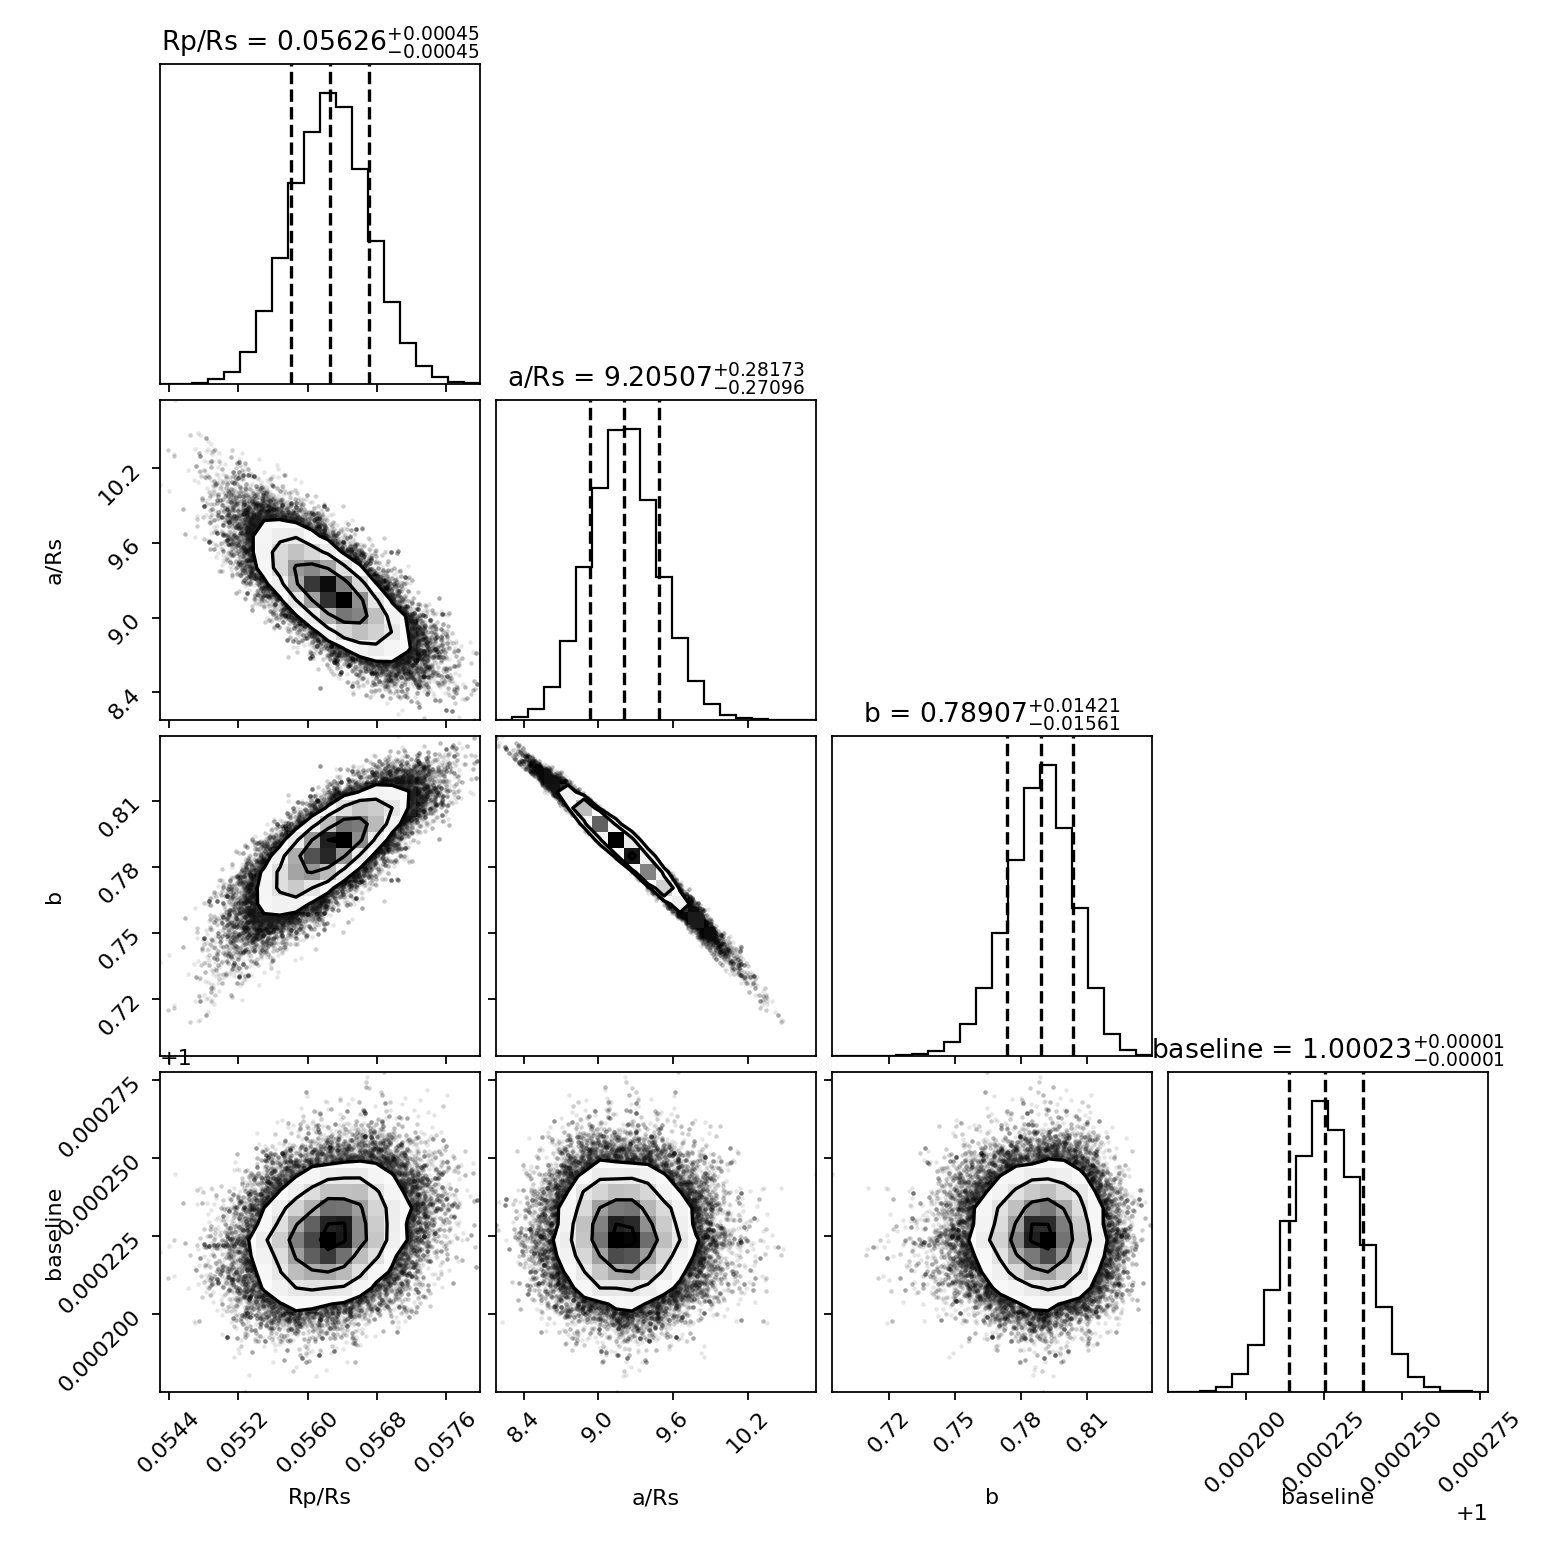
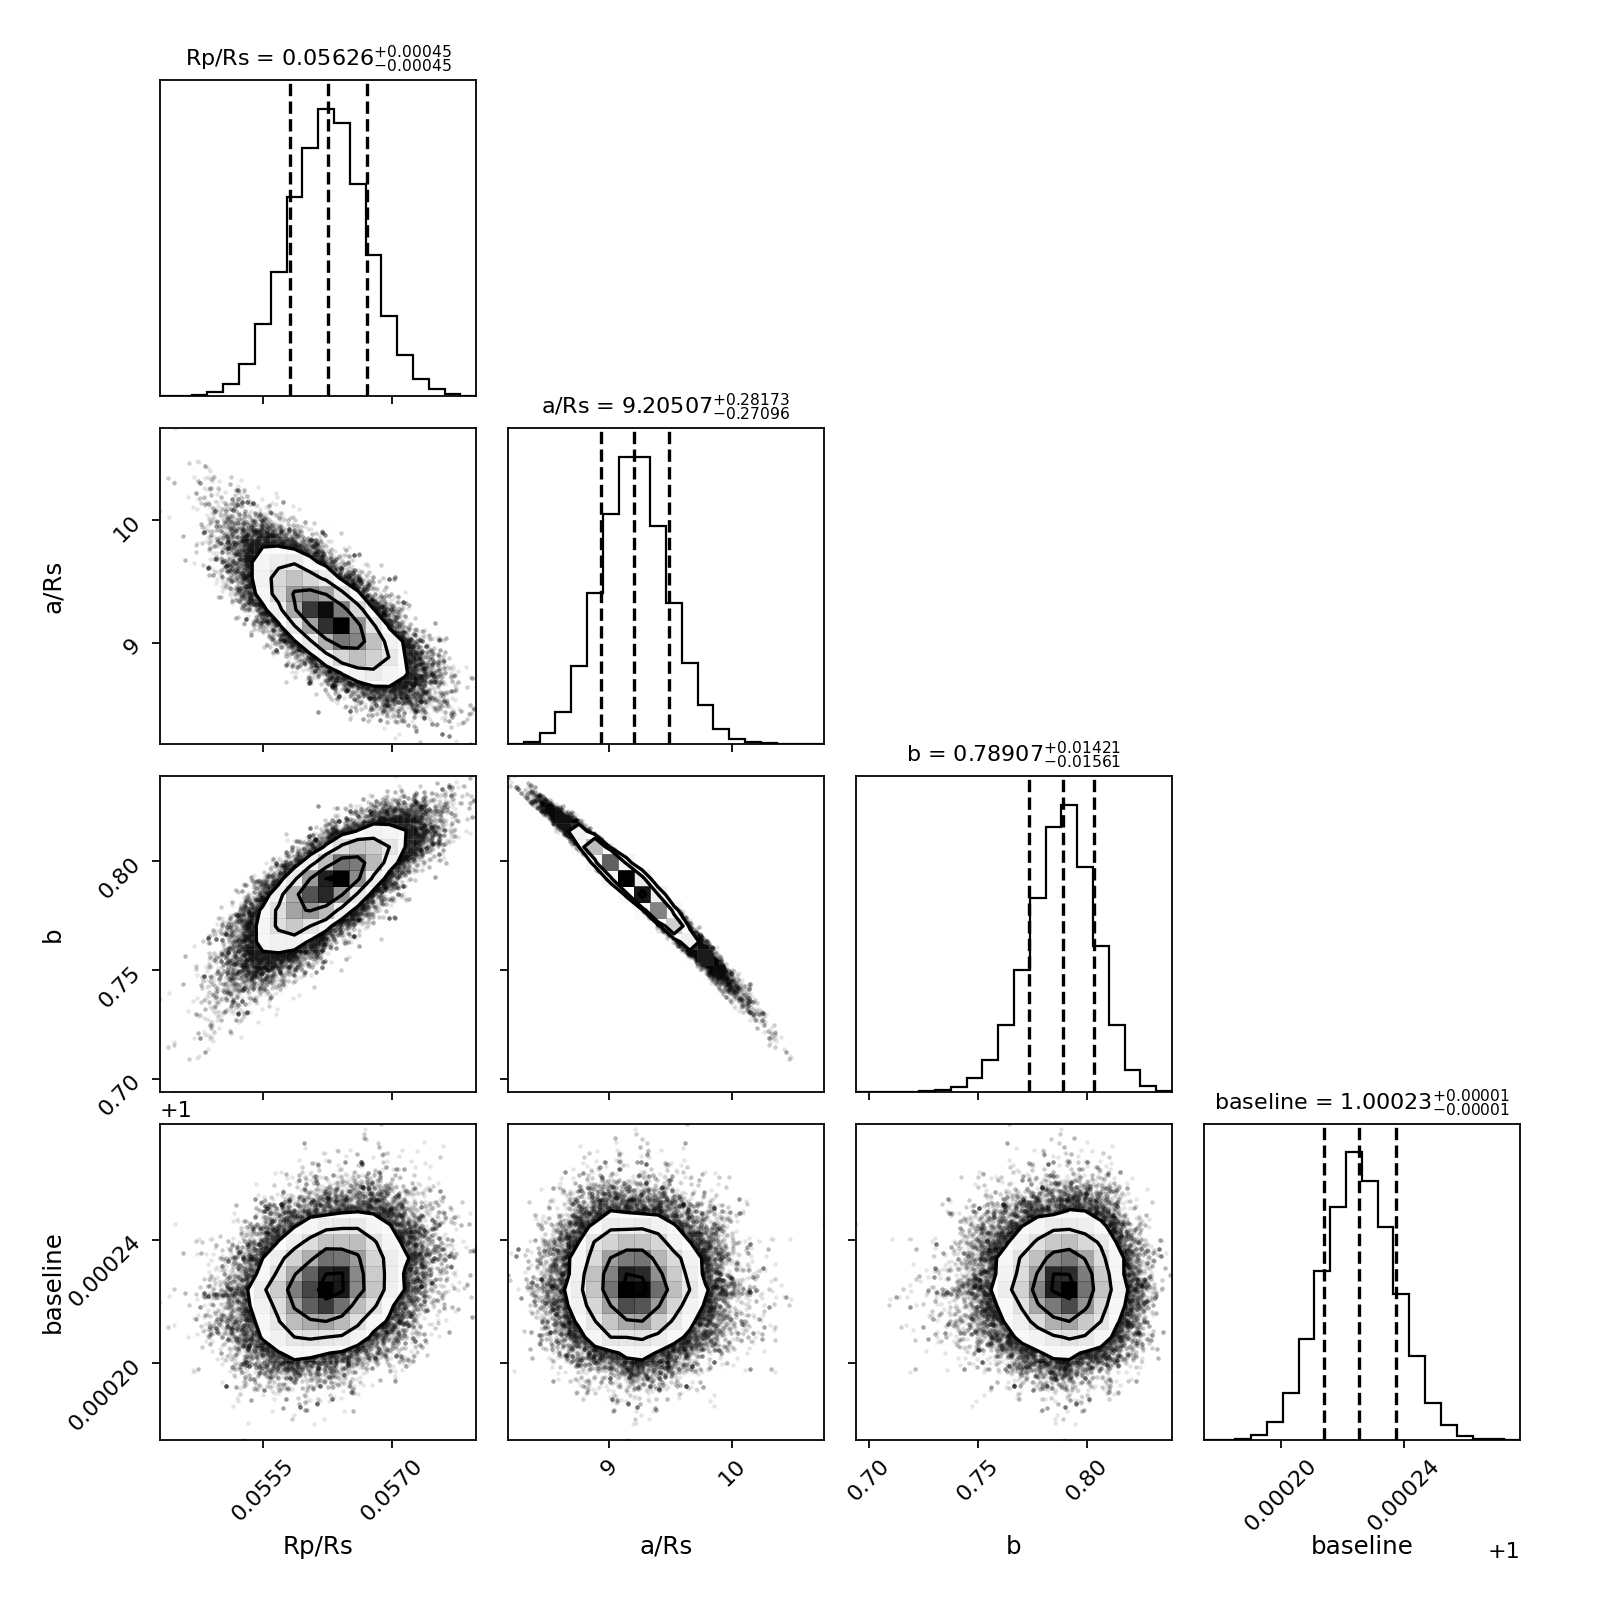
improving transit modeling scripts and corner plot for TOI-3492.01

diff --git a/scripts/replot.py b/scripts/replot.py
@@ -1,0 +1,28 @@
+import numpy as np
+import corner
+from pathlib import Path
+import matplotlib.pyplot as plt
+
+ROOT = Path(__file__).resolve().parent.parent
+samples = np.load(ROOT / "data" / "toi3492_chains_120s_corrected.npy")
+
+fig = plt.figure(figsize=(10, 10))
+fig = corner.corner(
+    samples,
+    fig=fig,
+    labels=["Rp/Rs", "a/Rs", "b", "baseline"],
+    show_titles=True,
+    quantiles=[0.16, 0.5, 0.84],
+    title_fmt=".5f",
+    title_kwargs={"fontsize": 10},
+    label_kwargs={"labelpad": 20, "fontsize": 11},
+    max_n_ticks=3,
+)
+
+fig.subplots_adjust(top=0.95, bottom=0.1, left=0.1, right=0.95, hspace=0.1, wspace=0.1)
+
+fig.savefig(
+    ROOT / "figures" / "toi3492_corner_120s_corrected.png", dpi=160
+)
+plt.close(fig)
+print("Re-plotted corner plot with larger figure size and smaller font.")

diff --git a/scripts/transit_model_120s_corrected.py b/scripts/transit_model_120s_corrected.py
@@ -450,13 +450,19 @@ def main():
     )
 
     # ---- Corner plot --------------------------------------------------------
+    fig = plt.figure(figsize=(10, 10))
     fig = corner.corner(
         samples,
+        fig=fig,
         labels=["Rp/Rs", "a/Rs", "b", "baseline"],
         show_titles=True,
         quantiles=[0.16, 0.5, 0.84],
         title_fmt=".5f",
+        title_kwargs={"fontsize": 10},
+        label_kwargs={"labelpad": 20, "fontsize": 11},
+        max_n_ticks=3,
     )
+    fig.subplots_adjust(top=0.95, bottom=0.1, left=0.1, right=0.95, hspace=0.1, wspace=0.1)
     fig.savefig(
         ROOT / "figures" / "toi3492_corner_120s_corrected.png", dpi=160
     )